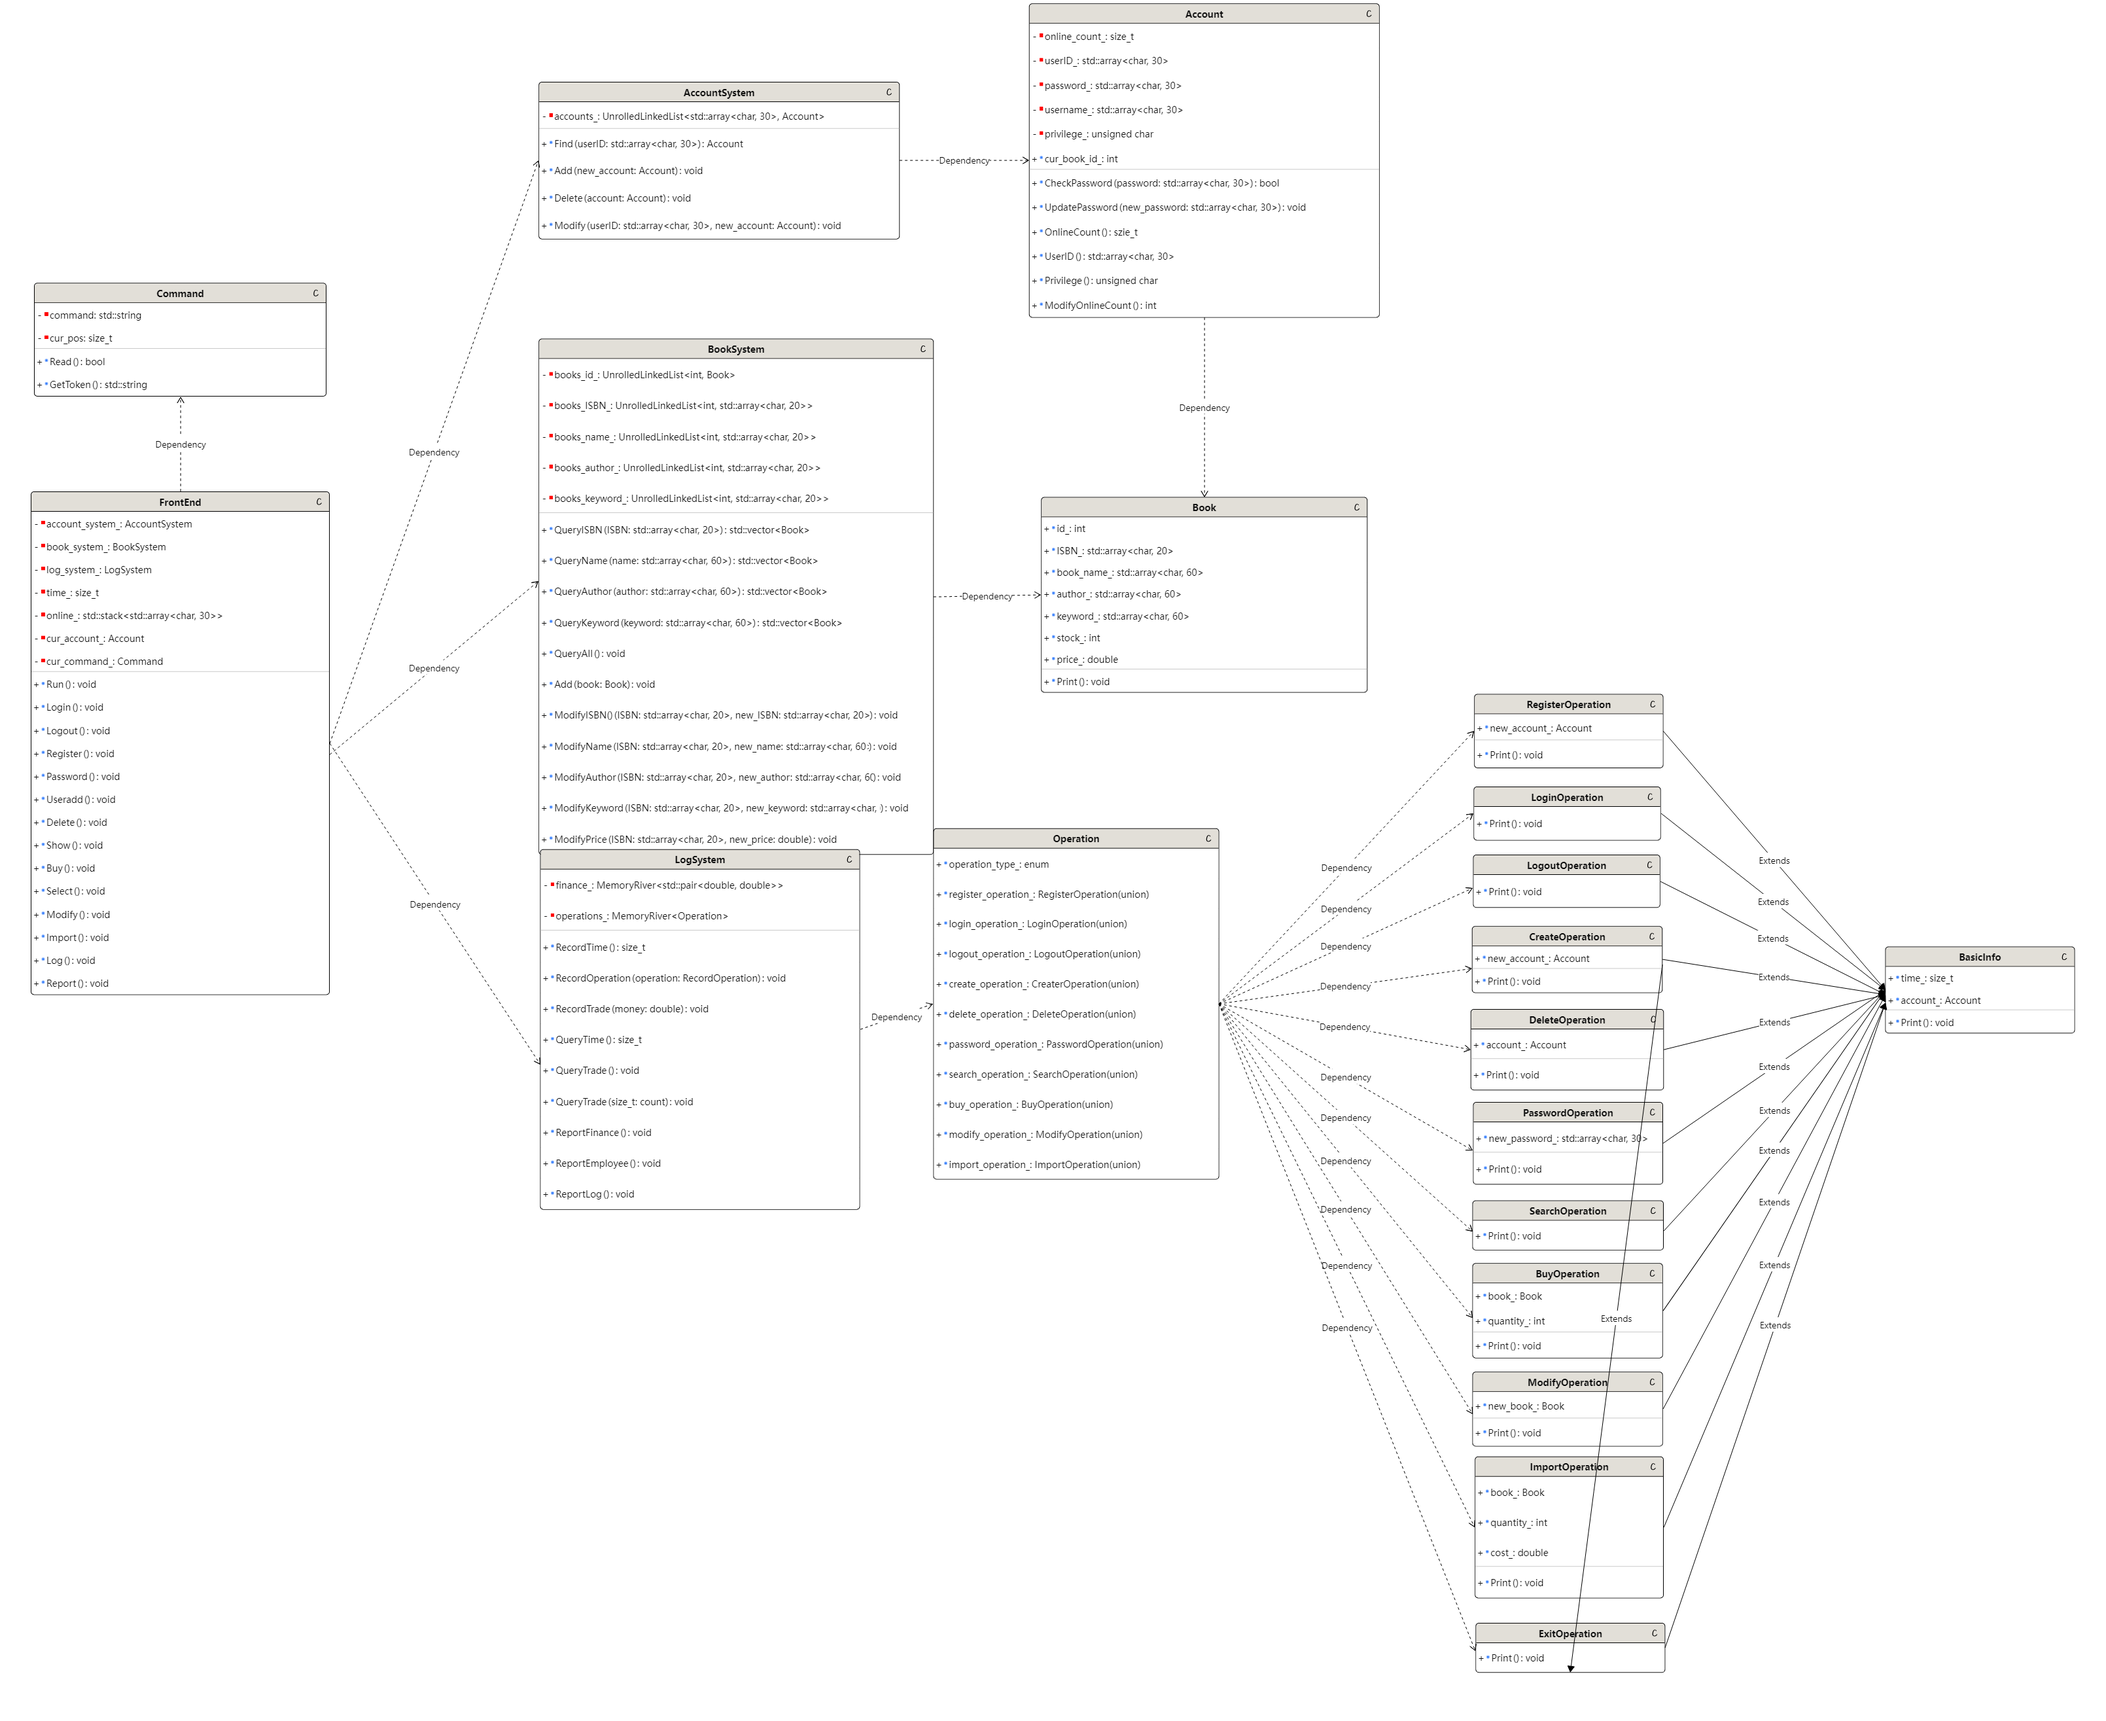
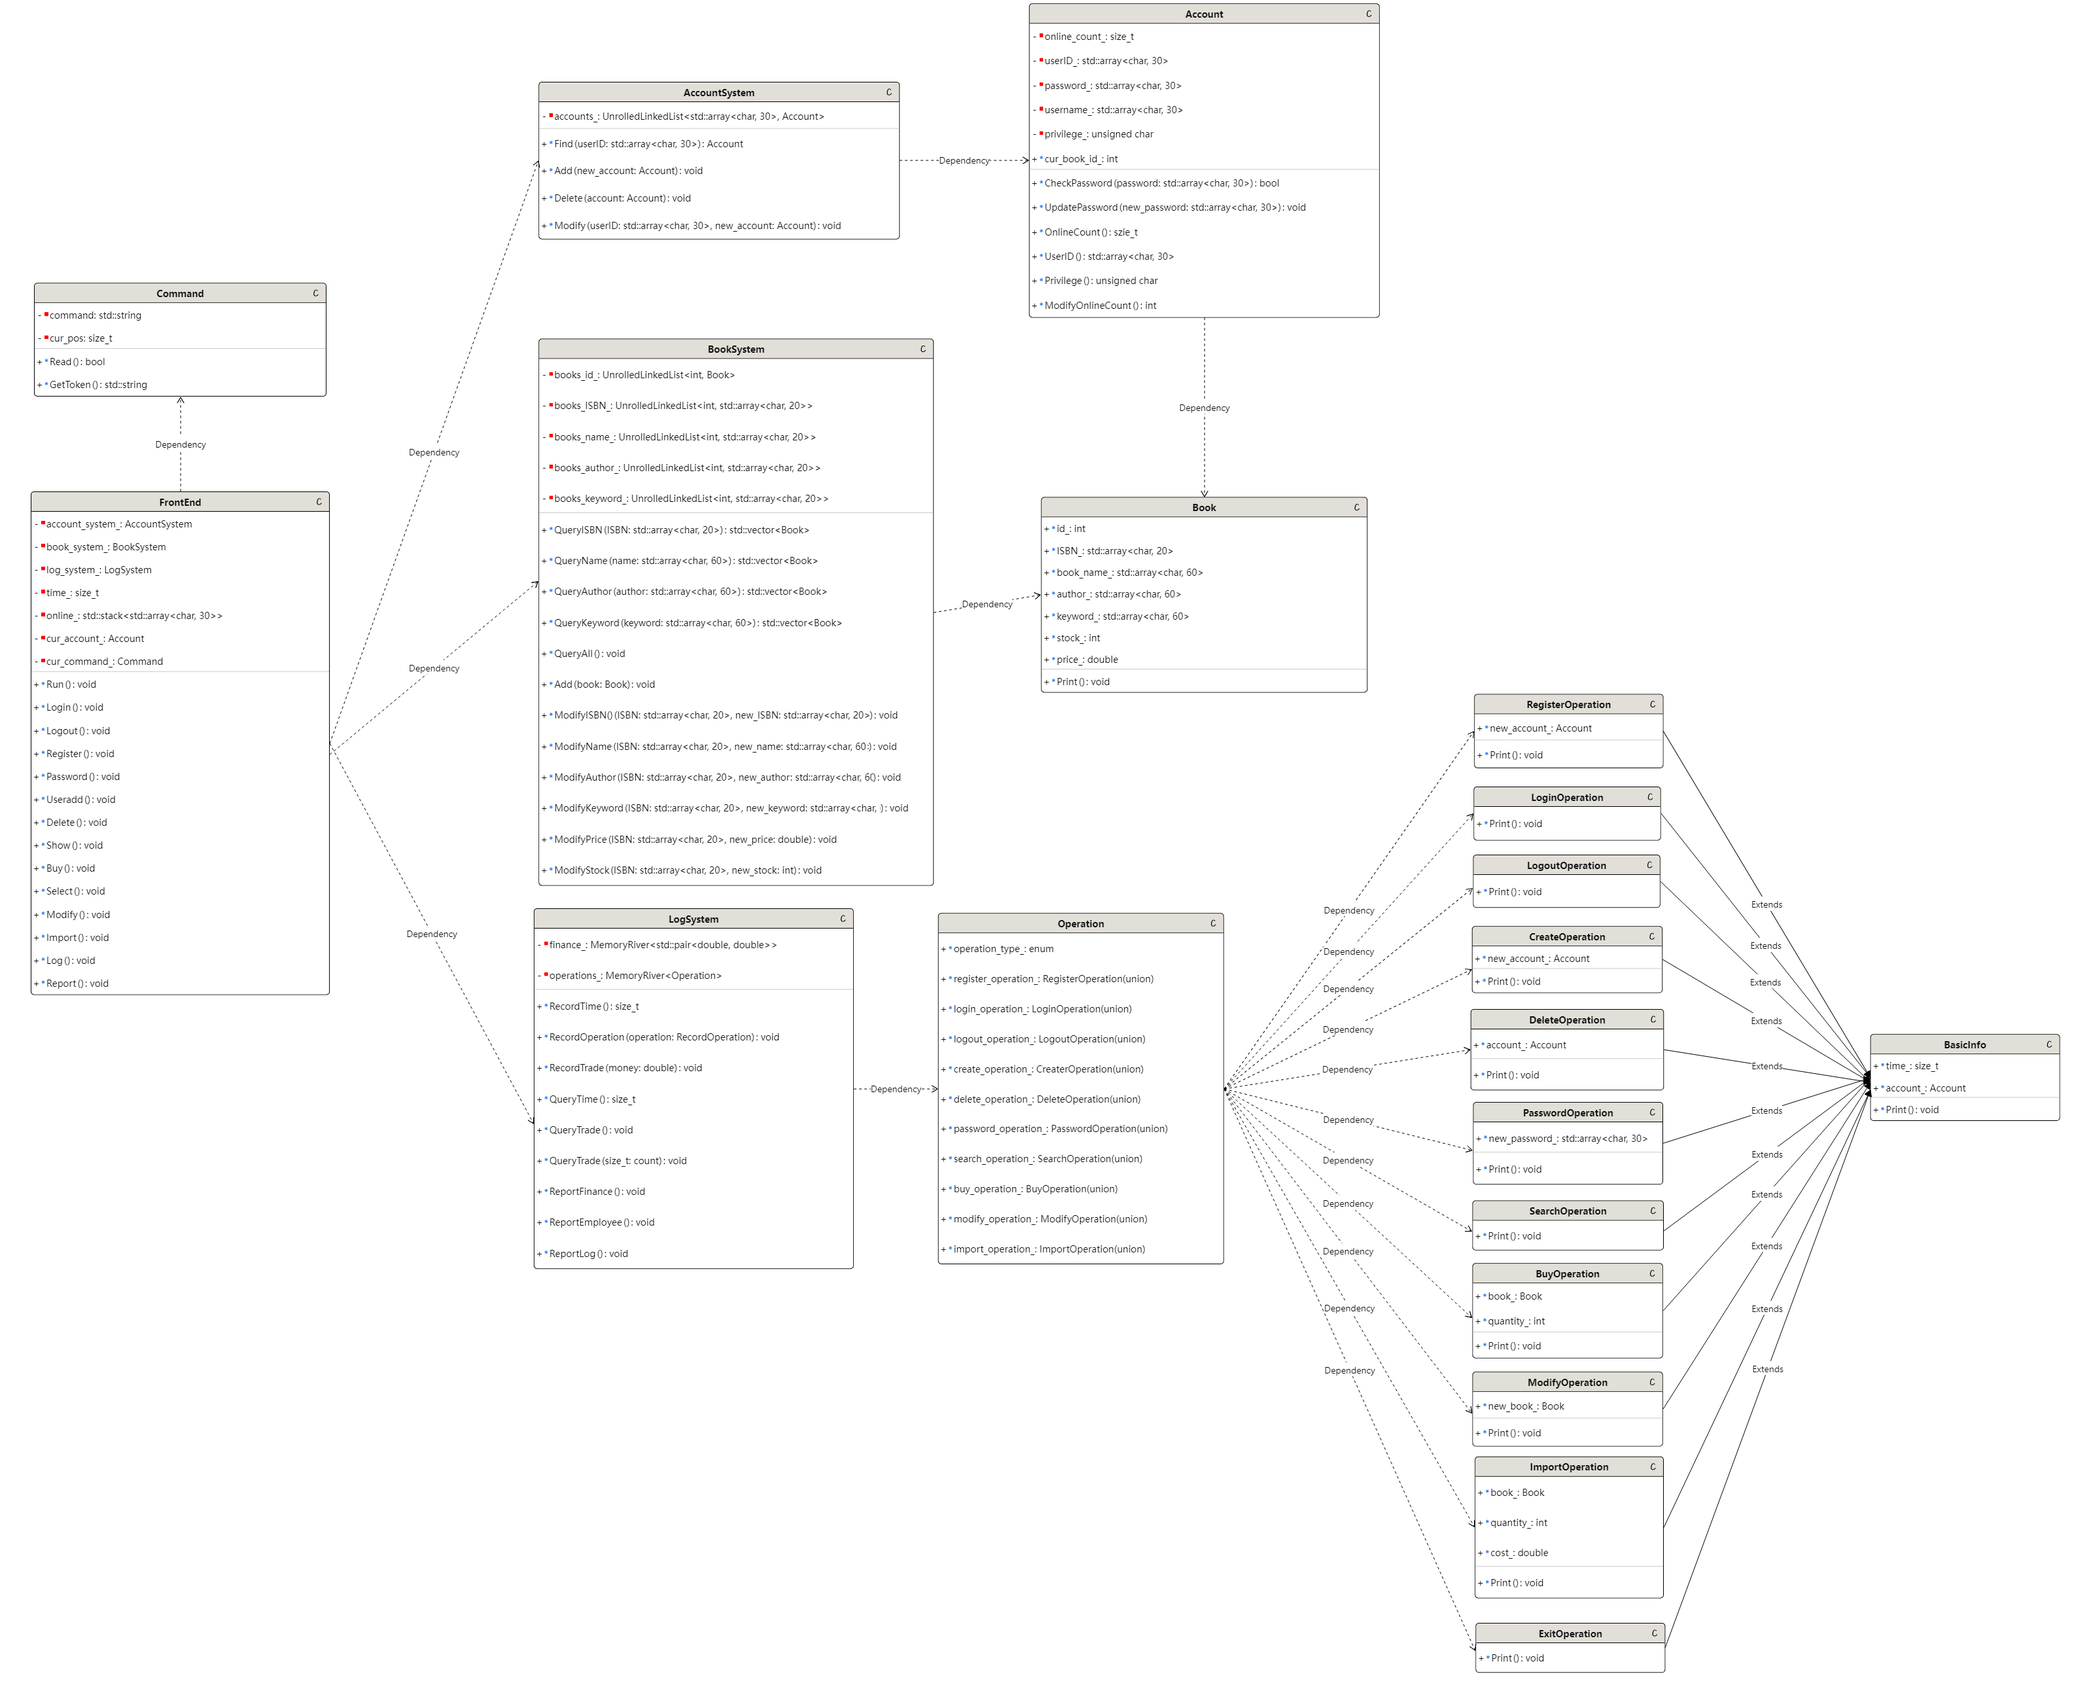
implement log part

diff --git a/src/front_end.cpp b/src/front_end.cpp
@@ -320,6 +320,21 @@ void FrontEnd::Show() {
   } else {
     if (tmp == "finance") {
       // finance log
+      if (cur_account_.Privilege() < 7) {
+        std::cout << "Invalid\n";
+        return;
+      }
+      tmp = cur_command_.GetToken();
+      if (tmp.empty()) {
+        log_system_.QueryTrade();
+      } else {
+        auto count = ToCount(tmp);
+        if (count < 0 || !cur_command_.GetToken().empty()) {
+          std::cout << "Invalid\n";
+          return;
+        }
+        log_system_.QueryTrade(count);
+      }
     } else {
       auto ISBN = ToISBN_(tmp);
       if (ISBN[0] == '\n') {
@@ -386,19 +401,46 @@ void FrontEnd::Show() {
         Book book = book_system_.QueryISBN(ISBN)[0];
         if (book.price_ < 0) {
           std::cout << '\n';
+        } else {
+          book.Print();
         }
-        book.Print();
       }
     }
   }
 }
 
 void FrontEnd::Buy() {
-
+  if (cur_account_.Privilege() < 1) {
+    std::cout << "Invalid\n";
+    return;
+  }
+  std::string tmp = cur_command_.GetToken();
+  if (tmp.empty()) {
+    std::cout << "Invalid\n";
+    return;
+  }
+  auto ISBN = ToISBN(tmp);
+  if (ISBN[0] == '\n') {
+    std::cout << "Invalid\n";
+    return;
+  }
+  tmp = cur_command_.GetToken();
+  auto quantity = ToQuantity(tmp);
+  if (quantity <= 0 || !cur_command_.GetToken().empty()) {
+    std::cout << "Invalid\n";
+    return;
+  }
+  auto book = book_system_.QueryISBN(ISBN)[0];
+  if (book.stock_ < quantity) {
+    std::cout << "Invalid\n";
+    return;
+  }
+  book_system_.ModifyStock(ISBN, book.stock_ - quantity);
+  log_system_.RecordTrade(quantity * book.price_);
+  std::cout << std::fixed << std::setprecision(2) << quantity * book.price_ << '\n';
 }
 
 void FrontEnd::Select() {
-  std::cerr << "Select\n";
   if (cur_account_.Privilege() < 3) {
     std::cout << "Invalid\n";
     return;
@@ -423,8 +465,6 @@ void FrontEnd::Select() {
 }
 
 void FrontEnd::Modify() {
-
-  std::cerr << "Modify\n";
   Book cur_book = book_system_.QueryId(cur_account_.cur_book_);
 
   if (cur_account_.Privilege() < 3 || cur_book.price_ < 0) {
@@ -491,7 +531,7 @@ void FrontEnd::Modify() {
     }
     tmp = cur_command_.GetToken();
   }
-  if (cur_book.ISBN_ == new_ISBN) {
+  if (book_system_.QueryISBN(new_ISBN)[0].price_ >= 0) {
     std::cout << "Invalid\n";
     return;
   }
@@ -518,7 +558,33 @@ void FrontEnd::Modify() {
 }
 
 void FrontEnd::Import() {
-
+  Book cur_book = book_system_.QueryId(cur_account_.cur_book_);
+  if (cur_account_.Privilege() < 3 || cur_book.price_ < 0) {
+    std::cout << "Invalid\n";
+    return;
+  }
+  std::string tmp = cur_command_.GetToken();
+  if (tmp.empty()) {
+    std::cout << "Invalid\n";
+    return;
+  }
+  auto quantity = ToQuantity(tmp);
+  if (quantity < 0) {
+    std::cout << "Invalid\n";
+    return;
+  }
+  tmp = cur_command_.GetToken();
+  if (tmp.empty()) {
+    std::cout << "Invalid\n";
+    return;
+  }
+  auto total_cost = ToTotalCost(tmp);
+  if (total_cost < 0 || !cur_command_.GetToken().empty()) {
+    std::cout << "Invalid\n";
+    return;
+  }
+  book_system_.ModifyStock(cur_book.ISBN_, cur_book.stock_ + quantity);
+  log_system_.RecordTrade(-total_cost);
 }
 
 void FrontEnd::Log() {

diff --git a/src/log.cpp b/src/log.cpp
@@ -1,4 +1,6 @@
 #include "log.h"
+#include <iostream>
+#include <iomanip>
 
 void LogSystem::RecordTime(const size_t &time) {
   finance_.WriteInfo(time, 1);
@@ -8,4 +10,44 @@ size_t LogSystem::QueryTime(){
   size_t res;
   finance_.GetInfo(res, 1);
   return res;
+}
+
+void LogSystem::RecordTrade(const double &money) {
+  std::pair<double, double> tmp;
+  finance_.Read(tmp, finance_.Length() - 1);
+  if (money > 0) {
+    tmp.first += money;
+  } else {
+    tmp.second -= money;
+  }
+  finance_.Write(tmp);
+}
+
+void LogSystem::QueryTrade() {
+  if (!finance_.Length()) {
+    std::cout << "+ 0.00 - 0.00\n";
+    return;
+  }
+  std::pair<double, double> tmp;
+  finance_.Read(tmp, finance_.Length() - 1);
+  std::cout << std::fixed << std::setprecision(2) << "+ " << tmp.first << " - " << tmp.second << '\n';
+}
+
+void LogSystem::QueryTrade(const size_t &count) {
+  if (!count) {
+    std::cout << "\n";
+    return;
+  }
+  if (count > finance_.Length()) {
+    std::cout << "Invalid\n";
+    return;
+  }
+  if (count == finance_.Length()) {
+    QueryTrade();
+  } else {
+    std::pair<double, double> tmp1, tmp2;
+    finance_.Read(tmp1, finance_.Length() - 1);
+    finance_.Read(tmp2, finance_.Length() - 1 - count);
+    std::cout << std::fixed << std::setprecision(2) << "+ " << tmp1.first - tmp2.first << " - " << tmp1.second - tmp2.second << '\n';
+  }
 }

diff --git a/include/memory_river.hpp b/include/memory_river.hpp
@@ -21,7 +21,9 @@ public:
     WriteInfo(length_, 0);
     file_.close();
   }
-
+  size_t Length() {
+    return length_;
+  }
   void Initialise(std::string FN = "") {
     if (file_.is_open()) {
       file_.close();
@@ -94,7 +96,6 @@ public:
   }
 
   void Update(T &t, const size_t index) {
-    /* your code here */
     if (!file_.is_open()) {
       file_.open(file_name_, std::ios::binary | std::ios::in | std::ios::out);
     }
@@ -106,7 +107,6 @@ public:
   }
 
   void Read(T &t, const size_t index) {
-    /* your code here */
     if (!file_.is_open()) {
       file_.open(file_name_, std::ios::binary | std::ios::in | std::ios::out);
     }

diff --git a/src/book.cpp b/src/book.cpp
@@ -132,6 +132,14 @@ void BookSystem::ModifyKeyword(const std::array<char, 20> &ISBN, const std::arra
   }
 }
 
+void BookSystem::ModifyStock(const std::array<char, 20> &ISBN, const int &new_stock) {
+  Book book = books_id_.Find(books_ISBN_.Find(ISBN)[0])[0];
+  books_id_.Delete(book.id_, book);
+  book.stock_ = new_stock;
+  books_id_.Insert(book.id_, book);
+}
+
+
 void BookSystem::ModifyPrice(const std::array<char, 20> &ISBN, const double &new_price) {
   Book book = books_id_.Find(books_ISBN_.Find(ISBN)[0])[0];
   books_id_.Delete(book.id_, book);

diff --git a/include/book.h b/include/book.h
@@ -53,6 +53,7 @@ public:
   void ModifyName(const std::array<char, 20> &, const std::array<char, 60> &);
   void ModifyAuthor(const std::array<char, 20> &, const std::array<char, 60> &);
   void ModifyKeyword(const std::array<char, 20> &, const std::array<char, 60> &);
+  void ModifyStock(const std::array<char, 20> &, const int &);
   void ModifyPrice(const std::array<char, 20> &, const double &);
   size_t Size() const { return books_ISBN_.Size(); }
 };

diff --git a/include/command.h b/include/command.h
@@ -25,7 +25,7 @@ std::array<char, 60> ToKeyword(const std::string &);
 std::array<char, 60> ToKeywords(const std::string &);
 int ToQuantity(const std::string &);
 double ToPrice(const std::string &);
-double ToTotalCoast(const std::string &);
+double ToTotalCost(const std::string &);
 int ToCount(const std::string &);
 
 std::array<char, 20> ToISBN_(const std::string &);

diff --git a/src/command.cpp b/src/command.cpp
@@ -244,7 +244,7 @@ double ToPrice(const std::string &s) {
 /**
  * @return -1 if invalid
  */
-double ToTotalCoast(const std::string &s) {
+double ToTotalCost(const std::string &s) {
   return ToPrice(s);
 }
 

diff --git a/include/log.h b/include/log.h
@@ -12,6 +12,9 @@ public:
   }
   void RecordTime(const size_t &);
   size_t QueryTime();
+  void RecordTrade(const double &);
+  void QueryTrade();
+  void QueryTrade(const size_t &);
 };
 
 #endif //LOG_H

diff --git a/doc/总体设计文档.md b/doc/总体设计文档.md
@@ -79,7 +79,7 @@ author:王健豪
 
 图书信息文件1（两个，head/body）：每个记录包含图书 (`class`)，块状链表存储，`key` 为 `id` （每本书唯一且不会变动的`int`）。
 
-图书信息文件2（两个，head/body）：每个记录包含，块状链表存储，`key` 为 [ISBN]。
+图书信息文件2（两个，head/body）：每个记录包含 `id`，块状链表存储，`key` 为 [ISBN]。
 
 图书信息文件3（两个，head/body）：每个记录包含 `id`，块状链表存储，`key` 为 [Bookname]。
 
